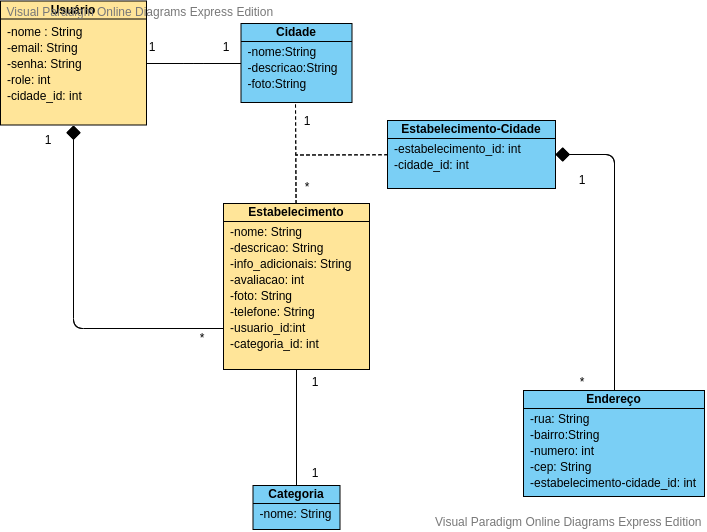
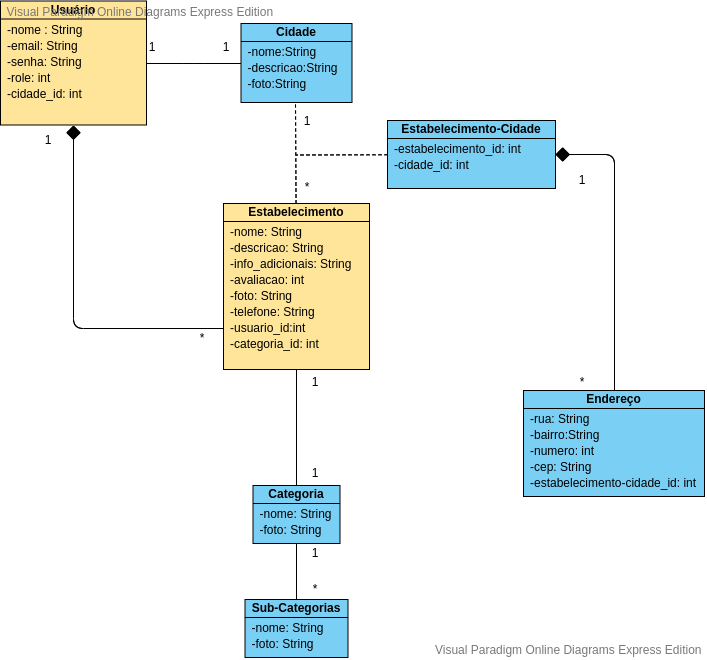
setting sub categories

diff --git a/app/assets/javascripts/application.js b/app/assets/javascripts/application.js
@@ -22,6 +22,7 @@
 // Select2
 //= require select2
 //= require_tree .
+//= require serviceworker-companion
 
 $( document ).on('turbolinks:load', function() {
   $(function() {
@@ -39,4 +40,4 @@ $( document ).on('turbolinks:load', function() {
   	$('.click_navbar .close').toggle(200);
   	$('.click_navbar .open').toggle(200);
   });
-});//= require serviceworker-companion
+});

diff --git a/app/assets/stylesheets/sub_categories.scss b/app/assets/stylesheets/sub_categories.scss
@@ -1,0 +1,3 @@
+// Place all the styles related to the sub_categories controller here.
+// They will automatically be included in application.css.
+// You can use Sass (SCSS) here: http://sass-lang.com/

diff --git a/db/schema.rb b/db/schema.rb
@@ -10,7 +10,7 @@
 #
 # It's strongly recommended that you check this file into your version control system.
 
-ActiveRecord::Schema.define(version: 20200326152155) do
+ActiveRecord::Schema.define(version: 20200427124653) do
 
   # These are extensions that must be enabled in order to support this database
   enable_extension "plpgsql"
@@ -67,6 +67,15 @@ ActiveRecord::Schema.define(version: 20200326152155) do
     t.datetime "updated_at",                          null: false
     t.index ["category_id"], name: "index_establishments_on_category_id", using: :btree
     t.index ["user_id"], name: "index_establishments_on_user_id", using: :btree
+  end
+
+  create_table "sub_categories", force: :cascade do |t|
+    t.integer  "category_id"
+    t.string   "name",        null: false
+    t.string   "photo"
+    t.datetime "created_at",  null: false
+    t.datetime "updated_at",  null: false
+    t.index ["category_id"], name: "index_sub_categories_on_category_id", using: :btree
   end
 
   create_table "users", force: :cascade do |t|

diff --git a/app/controllers/sub_categories_controller.rb b/app/controllers/sub_categories_controller.rb
@@ -1,0 +1,28 @@
+class SubCategoriesController < ApplicationController
+	before_action :set_category, only: [:new]
+
+	def new
+		@sub_category = SubCategory.new
+	end
+
+	def create
+		@sub_category = SubCategory.new(sub_category_params)
+		@sub_category.category_id = params[:category]
+
+		if @sub_category.save
+			redirect_to categories_path, notice: 'Sub-categoria salva com sucesso!'
+		else
+			redirect_to categories_path, alert: 'Problema ao salvar sub-categoria! Tente novamente mais tarde.'
+		end
+	end
+
+	private
+
+	def set_category
+		@category = Category.find(params[:category])
+	end
+
+	def sub_category_params
+		params.require(:sub_category).permit(:name, :photo)
+	end
+end

diff --git a/db/migrate/20200324133453_create_establishments.rb b/db/migrate/20200324133453_create_establishments.rb
@@ -2,7 +2,7 @@ class CreateEstablishments < ActiveRecord::Migration[5.0]
   def change
     create_table :establishments do |t|
     	t.belongs_to :user
-      t.belongs_to :category
+      t.belongs_to :sub_category
     	t.string :name, null: false, unique: true
     	t.string :description, null: false
     	t.string :additional_information

diff --git a/db/migrate/20200427124653_create_sub_categories.rb b/db/migrate/20200427124653_create_sub_categories.rb
@@ -1,0 +1,10 @@
+class CreateSubCategories < ActiveRecord::Migration[5.0]
+  def change
+    create_table :sub_categories do |t|
+      t.belongs_to :category
+      t.string :name, null: false, unique: true
+      t.string :photo
+      t.timestamps
+    end
+  end
+end

diff --git a/app/controllers/categories_controller.rb b/app/controllers/categories_controller.rb
@@ -11,6 +11,7 @@ class CategoriesController < ApplicationController
   # GET /categories/1
   # GET /categories/1.json
   def show
+    @sub_categories = @category.sub_categories
   end
 
   # GET /categories/new

diff --git a/test/controllers/sub_categories_controller_test.rb b/test/controllers/sub_categories_controller_test.rb
@@ -1,0 +1,7 @@
+require 'test_helper'
+
+class SubCategoriesControllerTest < ActionDispatch::IntegrationTest
+  # test "the truth" do
+  #   assert true
+  # end
+end

diff --git a/config/routes.rb b/config/routes.rb
@@ -24,6 +24,8 @@ Rails.application.routes.draw do
   
   resources :about
 
+  resources :sub_categories
+
   namespace :superuser do
   	get 'welcome/index'
   end

diff --git a/app/models/sub_category.rb b/app/models/sub_category.rb
@@ -1,0 +1,7 @@
+class SubCategory < ApplicationRecord
+	belongs_to :category
+	
+	validates_uniqueness_of :name
+
+	mount_uploader :photo, PhotoUploader
+end

diff --git a/app/models/category.rb b/app/models/category.rb
@@ -1,4 +1,6 @@
 class Category < ApplicationRecord
+	has_many :sub_categories, dependent: :destroy
+	
 	paginates_per 9
 	validates_uniqueness_of :name
 

diff --git a/test/models/sub_category_test.rb b/test/models/sub_category_test.rb
@@ -1,0 +1,7 @@
+require 'test_helper'
+
+class SubCategoryTest < ActiveSupport::TestCase
+  # test "the truth" do
+  #   assert true
+  # end
+end
